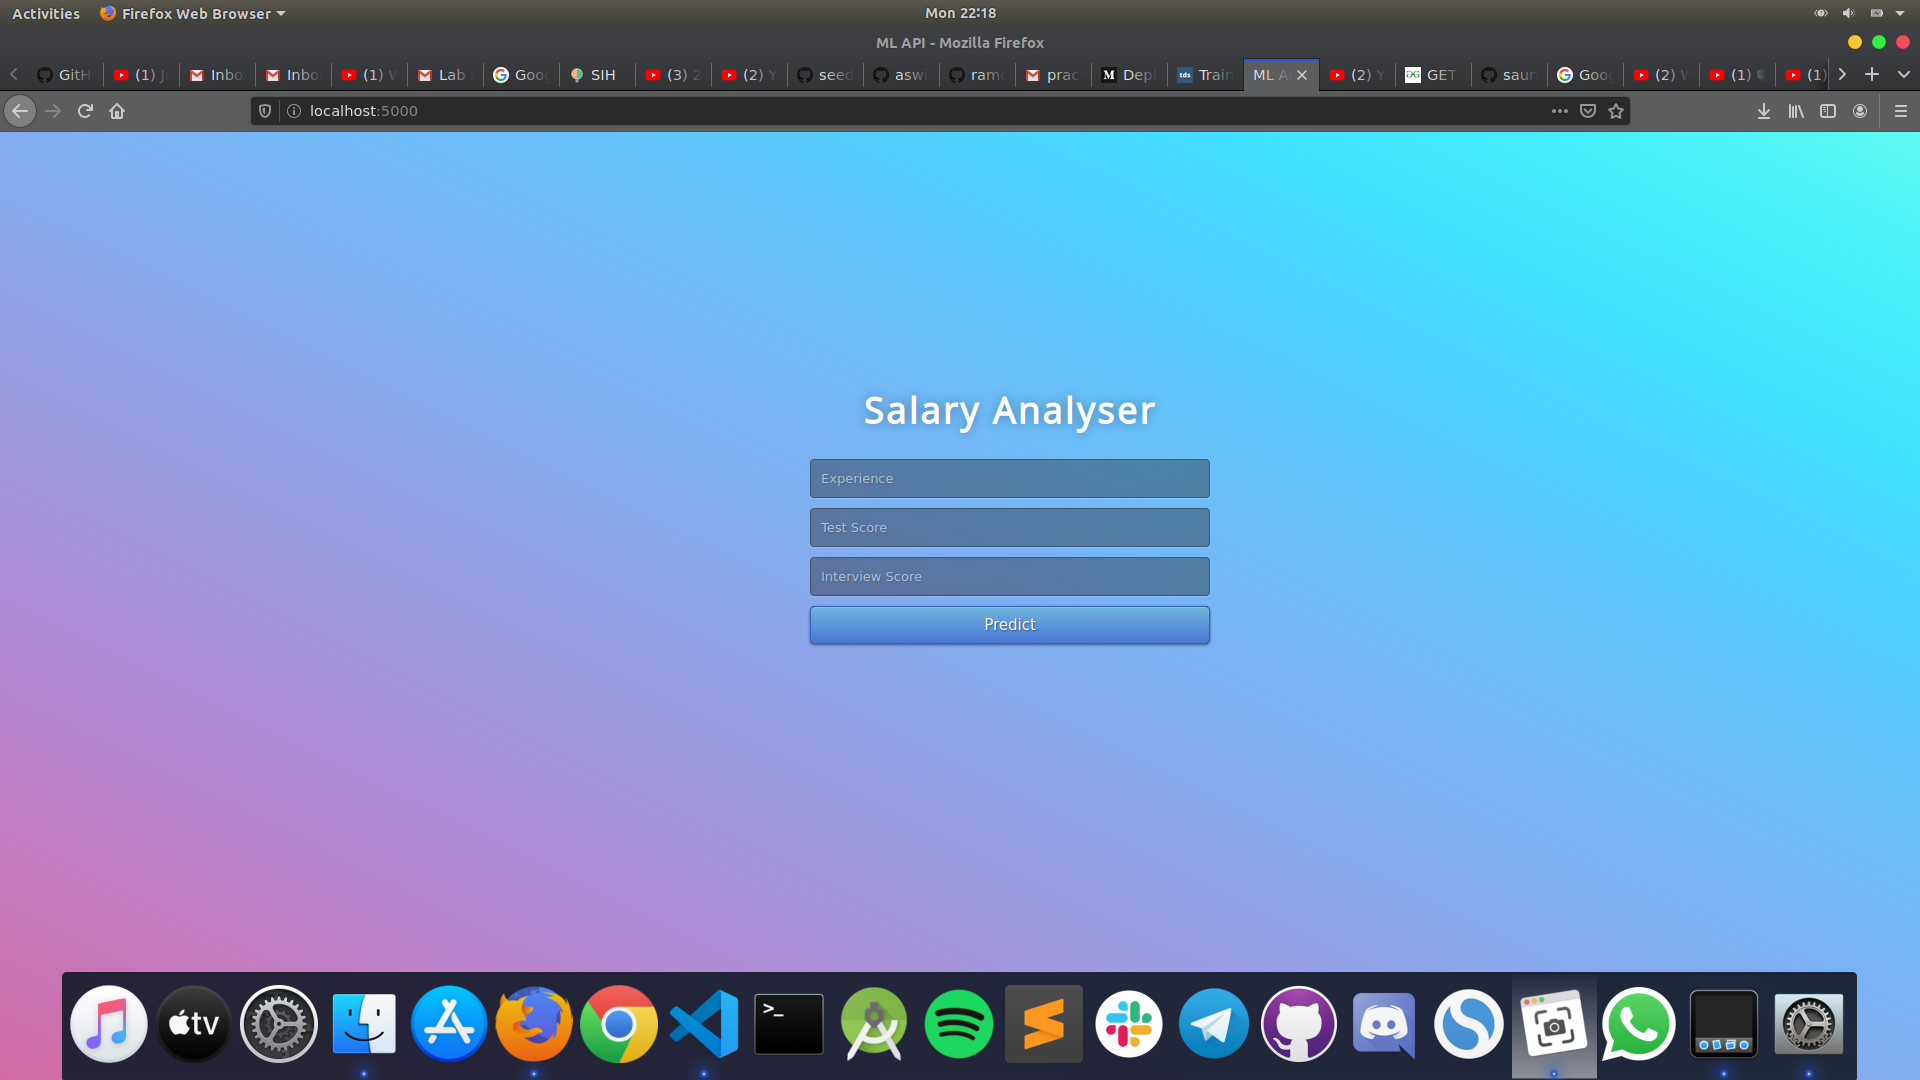
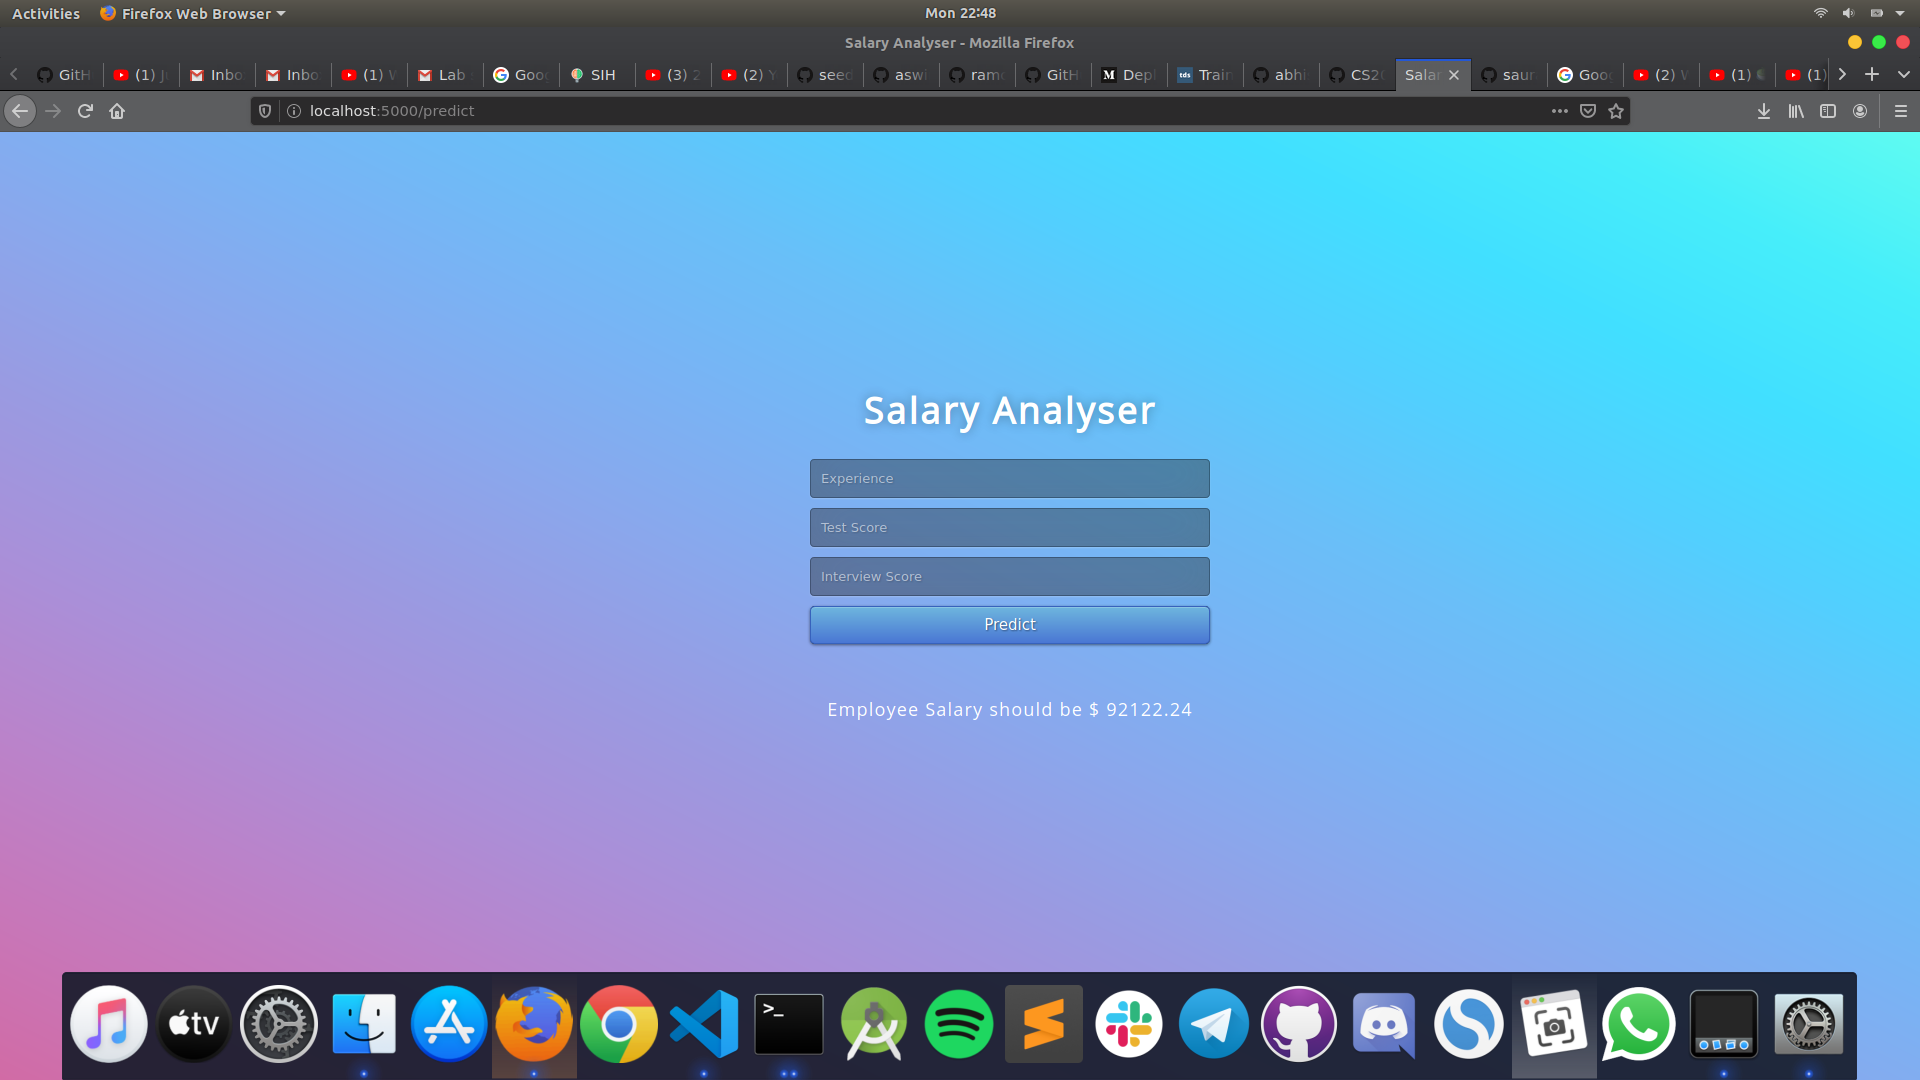
Lab3

diff --git a/README.md b/README.md
@@ -1,1 +1,10 @@
-# ML
+# CS206 : Lab Based Project 
+
+## Lab 3 
+  ```
+  Simple project to elaborate how Machine Learn Models are deployed on production using Flask API
+```
+
+![Screenshot](l3.png)
+
+
